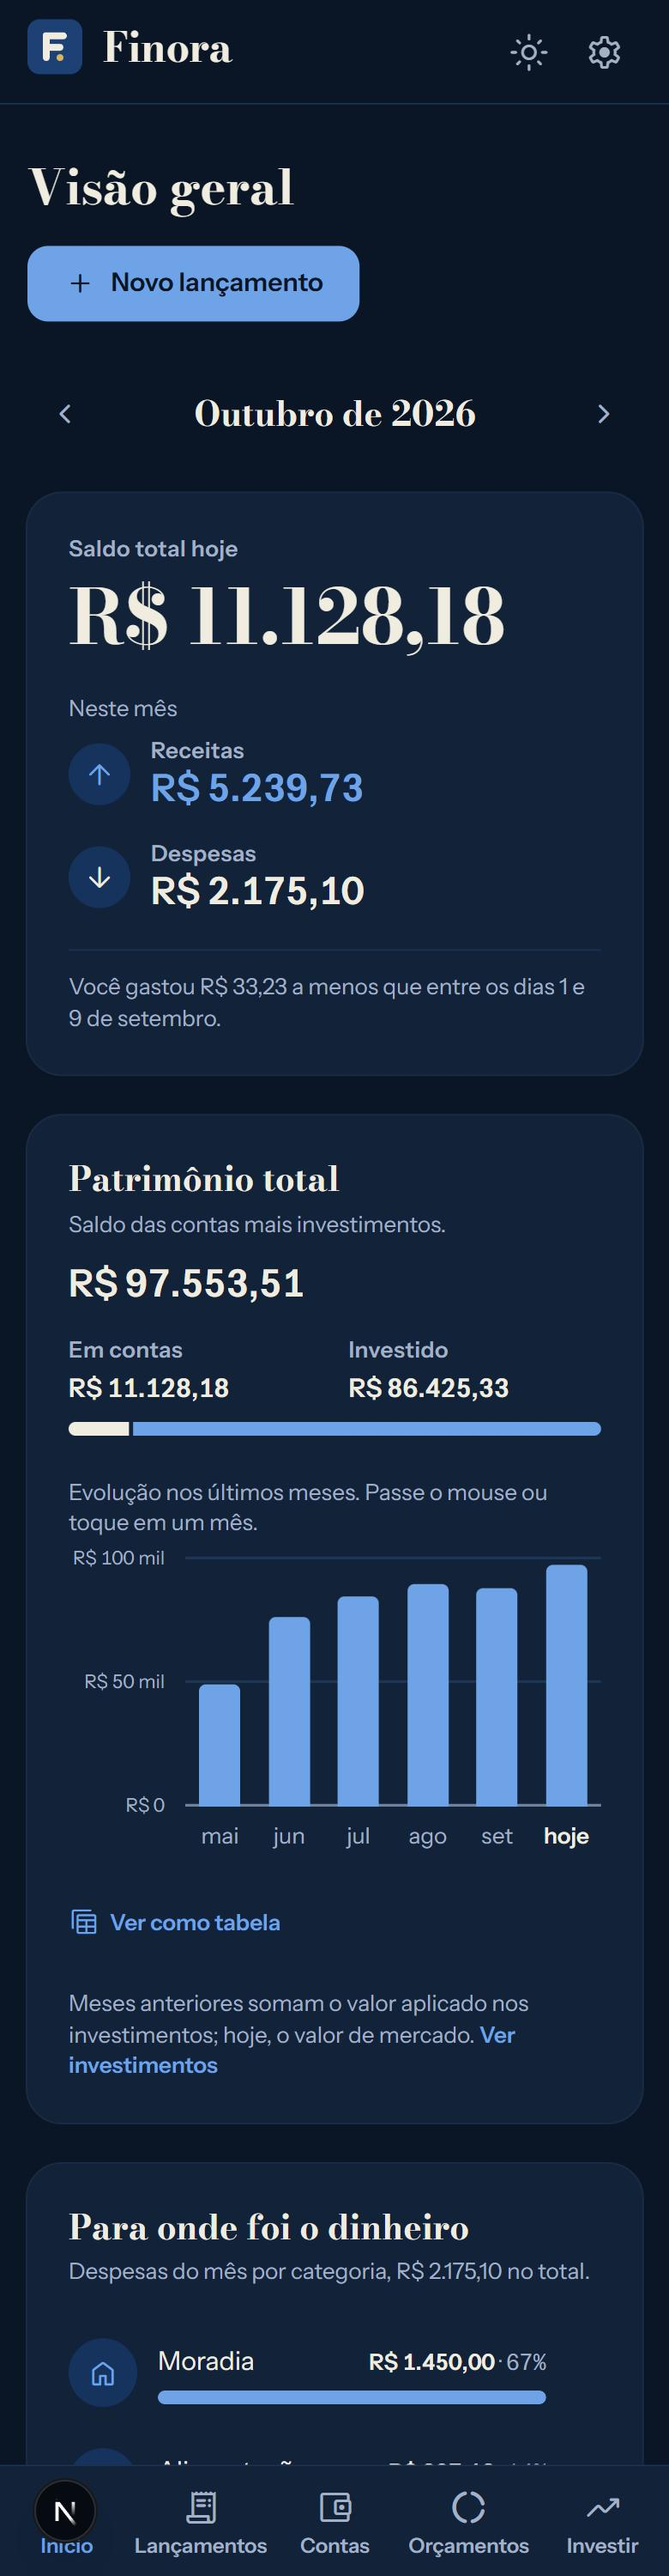
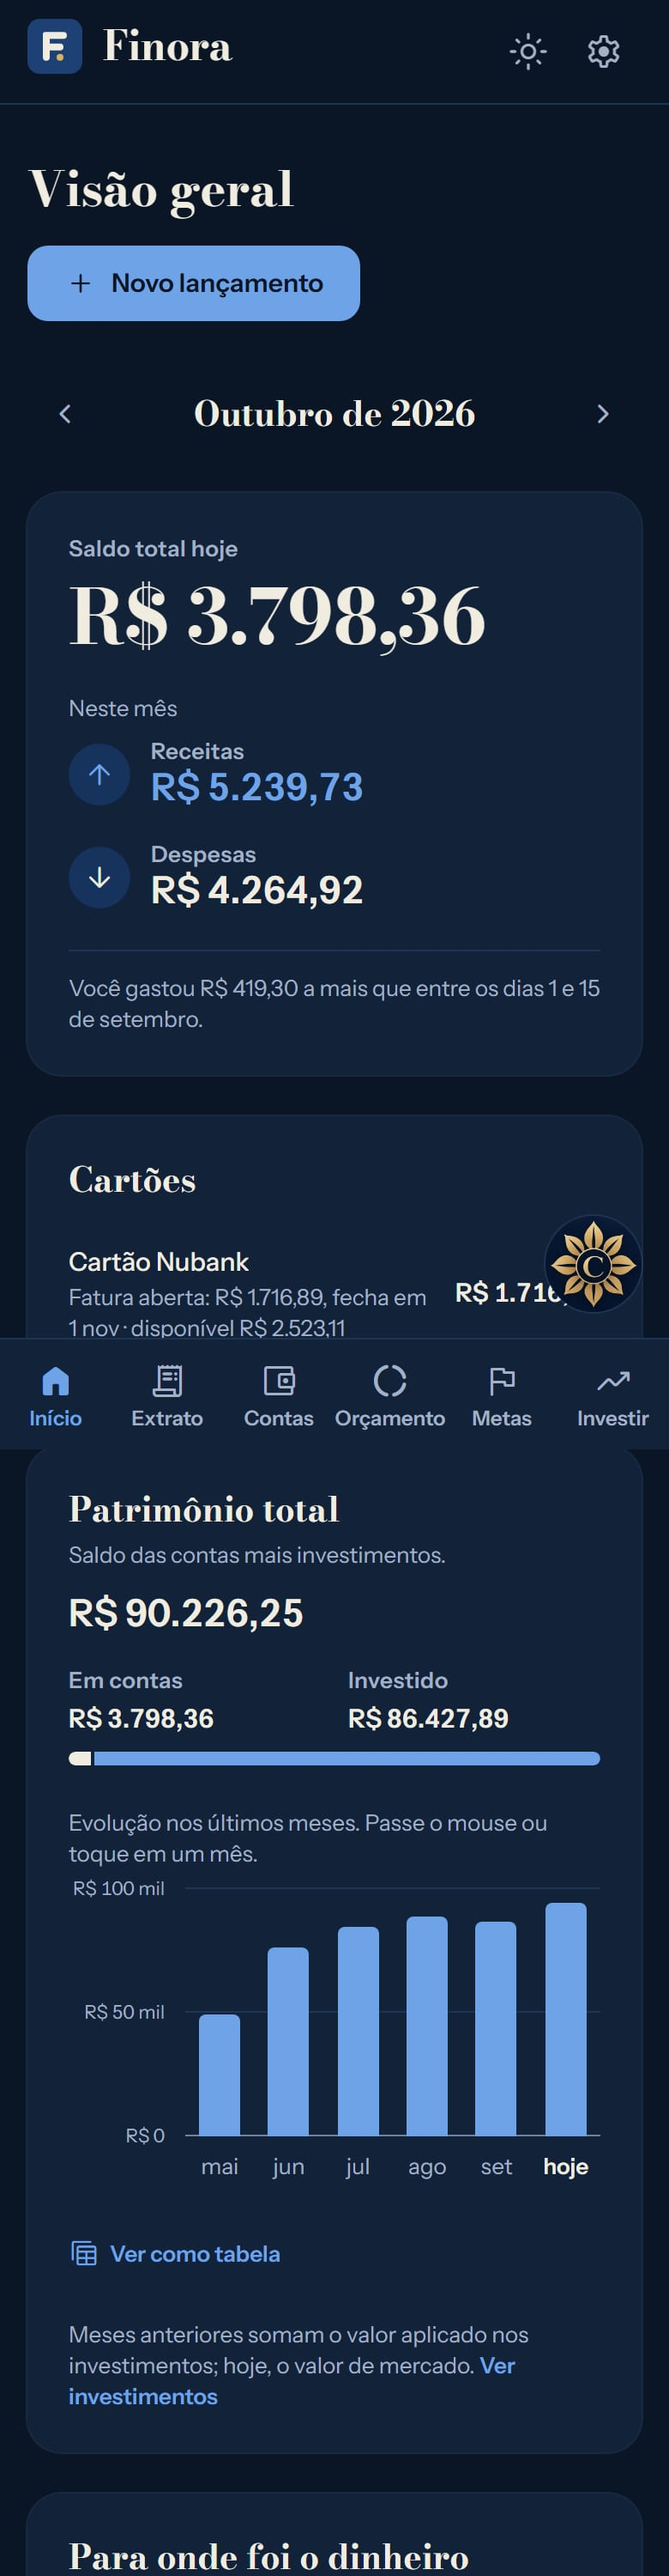
docs: bring the README up to date
New screenshots (light theme remaster, card bill, Clara), the architecture
diagram with Gemini, Vercel Cron and Web Push, current test coverage, the
security notes for the notification job and the offline cache, the full
project structure, and the finished roadmap.

diff --git a/README.md b/README.md
@@ -14,10 +14,12 @@
 
 ---
 
-Finora shows where money comes in and, above all, where it goes out, then follows it into
-investments with live quotes. The interface is in Brazilian Portuguese; code and docs are in
-English. Try it with **"Entrar como demo"**: a sample account with six months of data that resets
-every night.
+Finora shows where money comes in and, above all, where it goes out: card bills, budgets,
+savings goals and investments with live quotes, plus Clara, an AI assistant that answers
+questions about your own numbers. It installs on the phone as an app and works offline. The
+interface is in Brazilian Portuguese; code and docs are in English. Try it at
+**[finora-wl7u.vercel.app](https://finora-wl7u.vercel.app)** with **"Entrar como demo"**: a sample
+account with six months of data that resets every night.
 
 ## Features
 
@@ -60,9 +62,11 @@ every night.
 
 **Quality**
 - Row Level Security on every table; privileged code isolated in a private schema.
-- 100+ unit tests on the money, date, import, position and fixed income math.
-- End-to-end tests (Playwright) for sign-in, the demo account and the transaction flow, run
-  against a throwaway user that is created and deleted on every run.
+- 150+ unit tests on the money, date, import, position, fixed income, card bill, goal, alert and
+  assistant logic.
+- 20 end-to-end tests (Playwright): sign-in, Google, the demo account, transactions, card bills
+  with installments and payment, goals, Clara's panel, and the offline mode (with the network
+  cut). They run against a throwaway user created and deleted on every run.
 - CI on every push: lint, type check, unit tests, build and end-to-end tests.
 - Error monitoring without a third-party service: server errors (`onRequestError`) and browser
   errors are stored in a private table for 30 days; `npm run errors` lists them.
@@ -74,12 +78,18 @@ every night.
   <img src="docs/screenshots/investments.jpg" width="45%" alt="Investments: allocation and positions with live quotes" />
 </p>
 
+<p align="center">
+  <img src="docs/screenshots/card-bill.jpg" width="45%" alt="Credit card bill: total, due date, limit and purchases with installments" />
+  &nbsp;
+  <img src="docs/screenshots/clara.jpg" width="24%" alt="Clara, the AI assistant, answering how the savings goals are going" />
+</p>
+
 ## Tech stack
 
 - **Next.js 16** (App Router, Server Actions, Cache Components, Proxy) + **TypeScript**
 - **Tailwind CSS 4** with tokens from the Finora design system
 - **Supabase**: Postgres, Auth, Row Level Security, `pg_cron`
-- **Google Gen AI SDK** (Gemini, free tier) for the Assistente
+- **Google Gen AI SDK** (Gemini, free tier) for Clara; **Web Push** (VAPID) for notifications
 - **Zod** for form validation, **Vitest** and **Playwright** for tests, **GitHub Actions** for CI
 - Market data: [brapi.dev](https://brapi.dev), [CoinGecko](https://www.coingecko.com/),
   [AwesomeAPI](https://docs.awesomeapi.com.br/), [Banco Central SGS](https://dadosabertos.bcb.gov.br/)
@@ -89,10 +99,13 @@ every night.
 
 ```mermaid
 flowchart LR
-  Browser -->|Server Actions / RSC| Next["Next.js on Vercel"]
+  Browser["Browser / installed app<br/>(service worker)"] -->|Server Actions / RSC| Next["Next.js on Vercel"]
   Next -->|user session, RLS| Supabase[(Supabase Postgres)]
   Next -->|server only, cached| Quotes["brapi · CoinGecko · AwesomeAPI · BCB"]
-  Next -->|secret key, shared caches only| Supabase
+  Next -->|read-only tools, user's client| Gemini["Gemini (Clara)"]
+  Next -->|secret key: shared caches, daily alerts| Supabase
+  VCron["Vercel Cron"] -->|daily| Next
+  Next -->|Web Push| Browser
   Cron["pg_cron"] -->|daily| Supabase
 ```
 
@@ -103,8 +116,9 @@ flowchart LR
   run in Postgres as `security invoker` functions and views.
 - **Market data** is fetched only on the server and cached in shared tables (`quotes`,
   `index_rates`) that users can read and only the server writes.
-- **Jobs** run inside the database with `pg_cron`: recurring transactions at 03:00 and the demo
-  reset at 04:00 (São Paulo).
+- **Jobs**: `pg_cron` creates recurring transactions at 03:00 and resets the demo at 04:00
+  (São Paulo), and prunes old error events, AI results and notification logs. Vercel Cron calls
+  the notification job at 09:00.
 
 ## How the numbers work
 
@@ -191,10 +205,11 @@ lives in `src/lib/ai/clara.ts`, above the rules the app depends on. The chat pan
 conversation in `sessionStorage` and sends the last 12 turns as context with each message.
 
 The assistant runs on the server with the Google Gen AI SDK (`gemini-3.8-flash` on the free tier,
-low thinking; `GEMINI_MODEL` swaps it). Overload errors are retried after 1, 2 and 4 seconds, then the
-request runs once on `gemini-3.5-flash-lite`; a conversation stays on one model. The question loop is a plain function-calling loop
-(`src/lib/ai/ask.ts`, at most six turns), and tool input is validated with the same Zod schemas
-that are sent to the model as JSON Schema. Two read-only tools (`src/lib/ai/tools.ts`) are all it can use:
+low thinking; `GEMINI_MODEL` swaps it). Overload errors are retried after 1, 2 and 4 seconds, then
+the request runs once on `gemini-3.5-flash-lite`; a request stays on one model. The question loop
+is a plain function-calling loop (`src/lib/ai/ask.ts`, at most six turns), and tool input is
+validated with the same Zod schemas that are sent to the model as JSON Schema. Two read-only
+tools (`src/lib/ai/tools.ts`) are all it can use:
 `find_transactions` (sum, group and list transactions in a period, with type, category, account and
 text filters) and `get_context` (accounts, categories, budgets, goals, card bills). They query with
 the signed-in user's own Supabase client, so Row Level Security applies to the model exactly as to
@@ -204,8 +219,8 @@ output; its links are built by the app from the category name, never taken from 
 
 Limits: 20 questions and 5 summaries per user per day (`ai_requests`). Suggested questions and
 summaries are cached per day (`ai_results`), and the shared demo account can only use those, so its
-cost is bounded. Without `GEMINI_API_KEY` the page says the assistant is unavailable and the rest
-of the app is unaffected.
+cost is bounded. Without `GEMINI_API_KEY` Clara's button does not appear and the rest of the app
+is unaffected.
 
 ### Phone app (PWA)
 
@@ -248,7 +263,9 @@ because historical market prices are not stored. The chart's footnote says so.
 The visual identity ("Alvorada") pairs blu notte and ivory with a single touch of antique gold.
 Headings use **Bodoni Moda** (optical size 14), UI text uses **Instrument Sans**, and icons are
 **Material Symbols Rounded**. Tokens live in [`src/app/globals.css`](src/app/globals.css) and switch
-themes through `data-theme` on `<html>`, set before first paint.
+themes through `data-theme` on `<html>`, set before first paint. The light theme sets linen and
+warm ivory against a navy sidebar (the sidebar reuses the dark tokens in its own scope), so no
+large surface is near-white. Clara's portrait is a golden sunflower with a serif "C" on deep blue.
 
 Brand rules carried into the UI: income in blue with "+", expenses in ink with "−", never red for
 an ordinary expense or an investment loss; red only for real alerts (over budget, negative
@@ -266,8 +283,13 @@ deficiency separation and contrast in both themes, and every chart has a table v
 - Privileged code (seeds, new-user trigger, recurring generator, demo reset) lives in a `private`
   schema the public API cannot reach. Users cannot change their own `is_demo` flag or a rule's
   `generated_until`.
-- API tokens and the Supabase secret key stay on the server; the secret key is used only for the
-  shared quote and index caches.
+- API tokens and the Supabase secret key stay on the server. The secret key writes the shared
+  quote and index caches; the only place it reads users' rows is the daily notification job,
+  which has no signed-in user, is protected by `CRON_SECRET` and only reads.
+- Clara's tools query with the signed-in user's client, so the model sees exactly what the user
+  can see and cannot write anything.
+- The offline cache on the device belongs to one user and is wiped on the sign-in screen and when
+  a different user signs in.
 
 ## Getting started
 
@@ -275,7 +297,7 @@ Requirements: Node.js 20+ and a Supabase project.
 
 ```bash
 npm install
-cp .env.example .env.local   # fill in Supabase, brapi and demo values
+cp .env.example .env.local   # Supabase, brapi and demo values; Gemini and VAPID are optional
 npm run db:push              # create the schema
 npm run seed:demo            # create the demo account
 npm run dev
@@ -294,6 +316,7 @@ Open http://localhost:3000.
 | `npm run db:types` | Regenerate `src/lib/supabase/database.types.ts` |
 | `npm run seed:demo` | Create or reset the demo account |
 | `npm run errors` | Latest error events reported by production |
+| `node scripts/generate-icons.mjs` | Rebuild the app icons from the Finora mark |
 
 ### Deploying to Vercel
 
@@ -307,7 +330,7 @@ Open http://localhost:3000.
    and secret in Supabase → Authentication → Sign In / Providers → Google.
 5. For notifications, add `NEXT_PUBLIC_VAPID_PUBLIC_KEY`, `VAPID_PRIVATE_KEY`, `VAPID_SUBJECT` and
    `CRON_SECRET`; `vercel.json` schedules the daily job.
-6. For the Assistente, add `GEMINI_API_KEY` (free, from aistudio.google.com). On the free tier Google
+6. For Clara, add `GEMINI_API_KEY` (free, from aistudio.google.com). On the free tier Google
    may use the content to improve its products; the privacy page says so.
 
 ## Project structure
@@ -315,27 +338,39 @@ Open http://localhost:3000.
 ```
 src/
   app/
-    (app)/              # Signed-in area: dashboard, transactions, accounts, budgets, investments, settings
+    (app)/              # Signed-in area: dashboard, transactions, accounts, cards (bills),
+                        # budgets, goals, investments, settings, clara (assistant actions)
     (auth)/             # Login, sign-up and their Server Actions
-    auth/callback/      # Google sign-in and email confirmation handler
+    api/cron/notify/    # Daily push notification job (Vercel Cron)
+    auth/               # Google sign-in and email confirmation handlers
+    offline/, privacy/  # Offline fallback and privacy policy
+    manifest.ts         # Installable app (PWA)
     samples/            # Generated sample OFX/CSV files
-  components/           # brand, finance, investments, layout, ui
+  components/           # brand, clara, finance, investments, layout, pwa, ui
   lib/
+    ai/                 # Clara: persona, tools, question loop, monthly summary, limits
     data/               # Server-only data access layer
     fixed-income/       # SGS series cache and valuation
     import/             # OFX/CSV parsers, categorization, duplicate detection
     investments/        # Positions, quotes, providers, number formatting
+    notifications/      # Alert rules and Web Push sending
     supabase/           # Server, proxy and admin clients, generated types
+    credit-card.ts      # Bill periods, installments, status
+    goals.ts            # Goal pace and status
+    offline-queue.ts    # Transactions recorded offline
+  instrumentation.ts    # Server error reporting
   proxy.ts              # Session refresh + optimistic auth redirects
+public/sw.js            # Service worker (offline pages, push)
 e2e/                    # Playwright tests
 supabase/migrations/    # Schema, RLS, functions, cron jobs, demo seeds
-scripts/                # db:push, db:types, seed:demo
-docs/                   # MVP plan (Portuguese) and screenshots
+scripts/                # db:push, db:types, seed:demo, errors, generate-icons
+docs/                   # MVP plan and roadmap (Portuguese), screenshots
 ```
 
 ## Roadmap
 
-All eight MVP phases are done (plan in [docs/mvp-plan.md](docs/mvp-plan.md)). Next, in order
-([docs/roadmap.md](docs/roadmap.md)): production hardening (custom email, Google sign-in,
-end-to-end tests), credit card bills with installments, savings goals, AI insights on spending,
-and finally an installable mobile app (PWA) with offline mode and notifications.
+All 13 phases are done: the eight of the MVP ([docs/mvp-plan.md](docs/mvp-plan.md)) and five
+more ([docs/roadmap.md](docs/roadmap.md)): production hardening (Google sign-in, end-to-end tests,
+error monitoring), credit card bills with installments, savings goals, the Clara assistant, and
+the installable phone app with offline mode and notifications. Ideas for later: Open Finance
+(Pluggy), month-end net worth at market prices, Tesouro Direto prices and a monthly PDF report.
